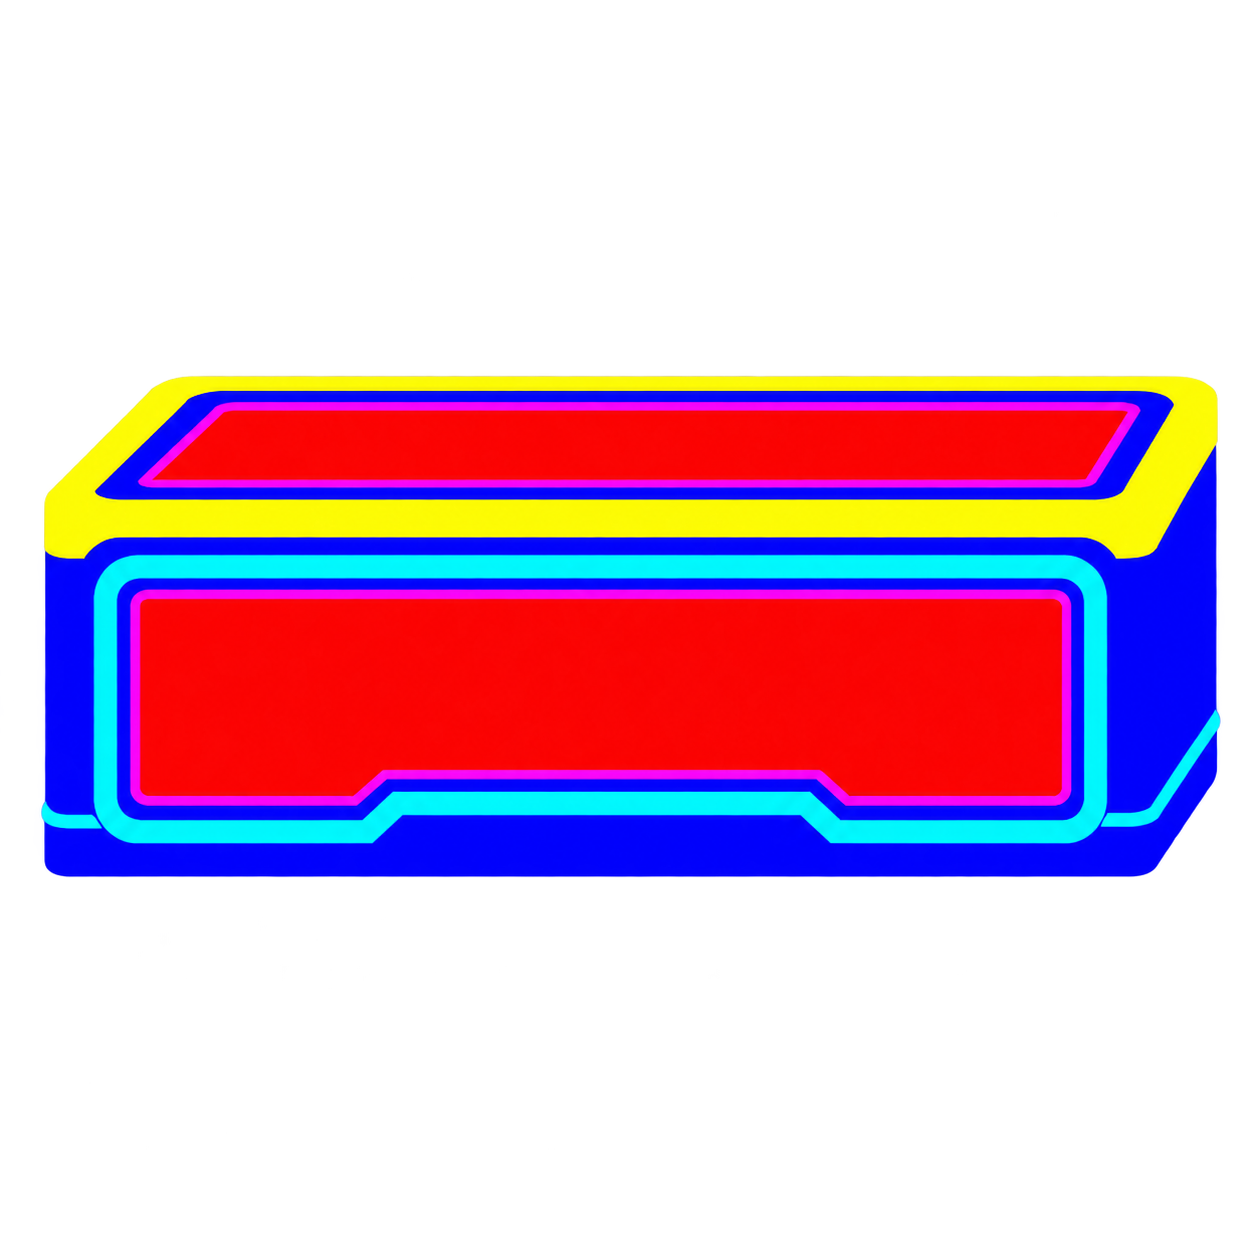
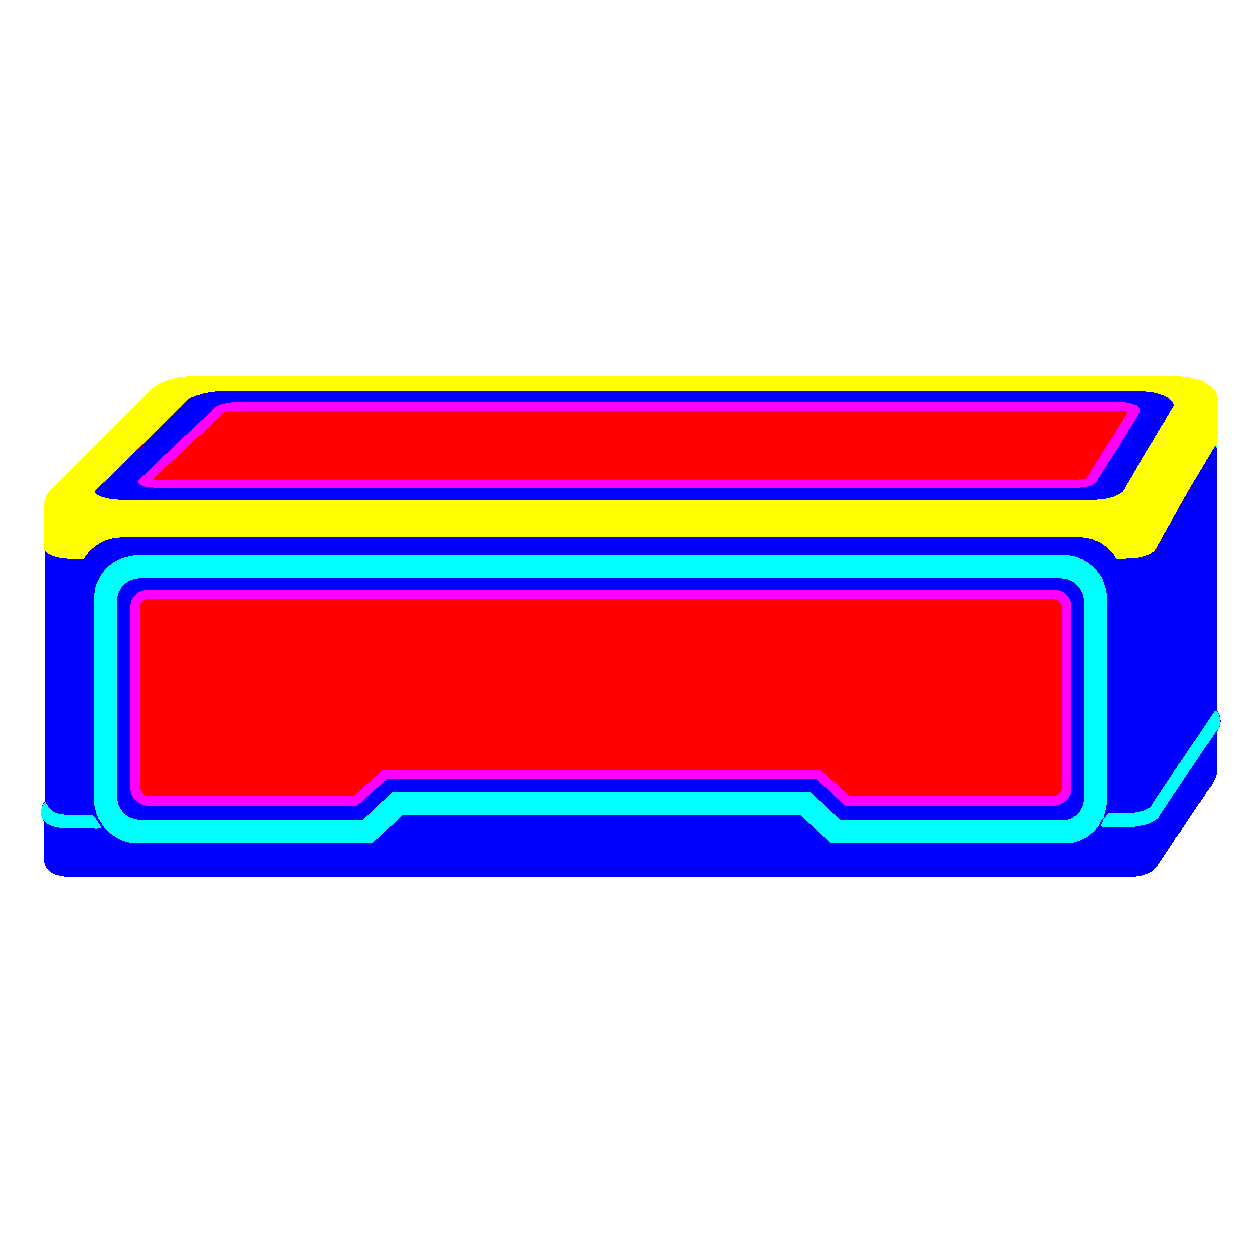
cleaned up fuzzy lines on segementation masks

diff --git a/test/clean_segmentation_mask_edges.py b/test/clean_segmentation_mask_edges.py
@@ -1,0 +1,259 @@
+"""Clean generated noise and straighten long mask boundaries."""
+
+from collections import Counter, defaultdict
+import argparse
+from pathlib import Path
+from statistics import median
+
+from PIL import Image
+
+
+PROJECT_ROOT = Path(__file__).resolve().parents[1]
+MASK_FOLDER = (
+    PROJECT_ROOT
+    / "docs"
+    / "archive"
+    / "old_podium_iterations"
+    / "02_3d_second_attempt"
+)
+OUTPUT_FOLDER = Path(__file__).with_name("cleaned_segmentation_mask_previews")
+STRONG_ALPHA = 64
+MIN_HORIZONTAL_LENGTH = 300
+MAX_BOUNDARY_ADJUSTMENT = 8
+CORNER_GUARD = 12
+
+TRANSPARENT = -1
+PALETTE = (
+    (255, 255, 0),
+    (255, 0, 0),
+    (0, 0, 255),
+    (0, 255, 255),
+    (255, 0, 255),
+)
+
+
+def nearest_class(red: int, green: int, blue: int) -> int:
+    return min(
+        range(len(PALETTE)),
+        key=lambda index: (
+            (red - PALETTE[index][0]) ** 2
+            + (green - PALETTE[index][1]) ** 2
+            + (blue - PALETTE[index][2]) ** 2
+        ),
+    )
+
+
+def group_nearby_rows(rows: list[int], maximum_gap: int = 4) -> list[tuple[int, int]]:
+    groups: list[tuple[int, int]] = []
+    start = previous = rows[0]
+    for row in rows[1:]:
+        if row - previous > maximum_gap:
+            groups.append((start, previous))
+            start = row
+        previous = row
+    groups.append((start, previous))
+    return groups
+
+
+def consecutive_runs(values: list[int], maximum_gap: int = 64) -> list[tuple[int, int]]:
+    runs: list[tuple[int, int]] = []
+    start = previous = values[0]
+    for value in values[1:]:
+        if value - previous > maximum_gap:
+            runs.append((start, previous))
+            start = value
+        previous = value
+    runs.append((start, previous))
+    return runs
+
+
+def fit_line(points: list[tuple[int, int]]) -> tuple[float, float]:
+    mean_x = sum(x for x, _ in points) / len(points)
+    mean_y = sum(y for _, y in points) / len(points)
+    denominator = sum((x - mean_x) ** 2 for x, _ in points)
+    slope = sum((x - mean_x) * (y - mean_y) for x, y in points) / denominator
+    return slope, mean_y - slope * mean_x
+
+
+def remove_interior_speckles(labels: list[list[int]], width: int, height: int) -> None:
+    """Remove isolated class pixels without changing the exterior silhouette."""
+
+    cleaned = [column[:] for column in labels]
+    for x in range(1, width - 1):
+        for y in range(1, height - 1):
+            neighborhood = [
+                labels[near_x][near_y]
+                for near_x in range(x - 1, x + 2)
+                for near_y in range(y - 1, y + 2)
+            ]
+            if TRANSPARENT in neighborhood:
+                continue
+            most_common, count = Counter(neighborhood).most_common(1)[0]
+            if count >= 5:
+                cleaned[x][y] = most_common
+
+    for x in range(width):
+        labels[x][:] = cleaned[x]
+
+
+def flatten_transition_rows(labels: list[list[int]], width: int, height: int) -> None:
+    """Resolve alternating pixels along otherwise continuous horizontal edges."""
+
+    cleaned = [column[:] for column in labels]
+    for y in range(1, height - 1):
+        columns_by_transition: dict[tuple[int, int], list[int]] = defaultdict(list)
+        for x in range(width):
+            above, current, below = labels[x][y - 1], labels[x][y], labels[x][y + 1]
+            if (
+                above != below
+                and TRANSPARENT not in (above, below)
+                and current != TRANSPARENT
+            ):
+                columns_by_transition[(above, below)].append(x)
+
+        for (above, below), columns in columns_by_transition.items():
+            for run_start, run_end in consecutive_runs(columns, maximum_gap=1):
+                if run_end - run_start < MIN_HORIZONTAL_LENGTH:
+                    continue
+                guarded_start = run_start + CORNER_GUARD
+                guarded_end = run_end - CORNER_GUARD
+                counts = Counter(
+                    labels[x][y] for x in range(guarded_start, guarded_end + 1)
+                )
+                replacement = above if counts[above] >= counts[below] else below
+                for x in range(guarded_start, guarded_end + 1):
+                    cleaned[x][y] = replacement
+
+    for x in range(width):
+        labels[x][:] = cleaned[x]
+
+
+def clean_mask(source_path: Path, output_path: Path) -> int:
+    """Quantize a mask and straighten each long, nearly horizontal boundary."""
+
+    with Image.open(source_path) as source:
+        source = source.convert("RGBA")
+
+    width, height = source.size
+    source_pixels = source.load()
+    labels = [[TRANSPARENT] * height for _ in range(width)]
+
+    # Normalize the nearly transparent speckles and near-palette RGB values
+    # found in the generated masks before analyzing their boundaries.
+    for x in range(width):
+        for y in range(height):
+            red, green, blue, alpha = source_pixels[x, y]
+            if alpha > STRONG_ALPHA:
+                labels[x][y] = nearest_class(red, green, blue)
+
+    remove_interior_speckles(labels, width, height)
+
+    transitions: dict[tuple[int, int], list[tuple[int, int]]] = defaultdict(list)
+    for x in range(width):
+        for y in range(1, height):
+            above, below = labels[x][y - 1], labels[x][y]
+            if above != below:
+                transitions[(above, below)].append((x, y))
+
+    straightened = 0
+    for (above, below), points in transitions.items():
+        # Never refit the exterior silhouette.  Its rounded corner transitions
+        # must remain exactly where the source mask places them.
+        if TRANSPARENT in (above, below):
+            continue
+
+        row_counts = Counter(y for _, y in points)
+        dense_rows = sorted(y for y, count in row_counts.items() if count >= 40)
+        if not dense_rows:
+            continue
+
+        for first_row, last_row in group_nearby_rows(dense_rows):
+            candidates = [
+                (x, y)
+                for x, y in points
+                if first_row - 3 <= y <= last_row + 3
+            ]
+            if not candidates:
+                continue
+
+            by_x: dict[int, list[int]] = defaultdict(list)
+            for x, y in candidates:
+                by_x[x].append(y)
+            if max(by_x) - min(by_x) < MIN_HORIZONTAL_LENGTH:
+                continue
+
+            slope, intercept = fit_line(candidates)
+            if abs(slope) > 0.02:
+                continue
+
+            # Select one transition per column and refit so nearby unrelated
+            # edges cannot pull the final boundary away from its intended run.
+            selected = [
+                (x, min(ys, key=lambda y: abs(y - (slope * x + intercept))))
+                for x, ys in by_x.items()
+            ]
+            clean_y = round(median(y for _, y in selected))
+            stable_columns = sorted(
+                x for x, old_y in selected if abs(old_y - clean_y) <= 2
+            )
+
+            for run_start, run_end in consecutive_runs(stable_columns):
+                if run_end - run_start < MIN_HORIZONTAL_LENGTH:
+                    continue
+                guarded_start = run_start + CORNER_GUARD
+                guarded_end = run_end - CORNER_GUARD
+
+                for x in range(guarded_start, guarded_end + 1):
+                    nearby_transitions = [
+                        y
+                        for y in range(
+                            max(1, clean_y - MAX_BOUNDARY_ADJUSTMENT),
+                            min(height, clean_y + MAX_BOUNDARY_ADJUSTMENT + 1),
+                        )
+                        if labels[x][y - 1] == above and labels[x][y] == below
+                    ]
+                    if not nearby_transitions:
+                        continue
+                    old_y = min(nearby_transitions, key=lambda y: abs(y - clean_y))
+                    if clean_y > old_y:
+                        for y in range(old_y, clean_y):
+                            labels[x][y] = above
+                    elif clean_y < old_y:
+                        for y in range(clean_y, old_y):
+                            labels[x][y] = below
+            straightened += 1
+
+    flatten_transition_rows(labels, width, height)
+
+    result = Image.new("RGBA", source.size)
+    result_pixels = result.load()
+    for x in range(width):
+        for y in range(height):
+            label = labels[x][y]
+            if label != TRANSPARENT:
+                result_pixels[x, y] = (*PALETTE[label], 255)
+
+    output_path.parent.mkdir(parents=True, exist_ok=True)
+    result.save(output_path)
+    return straightened
+
+
+def main() -> None:
+    parser = argparse.ArgumentParser()
+    parser.add_argument(
+        "--apply",
+        action="store_true",
+        help="replace the source masks after writing the preview copies",
+    )
+    args = parser.parse_args()
+
+    for source_path in sorted(MASK_FOLDER.glob("*segmentation_mask.png")):
+        output_path = OUTPUT_FOLDER / source_path.name
+        count = clean_mask(source_path, output_path)
+        if args.apply:
+            output_path.replace(source_path)
+        print(f"Cleaned {source_path.name}: straightened {count} boundaries")
+
+
+if __name__ == "__main__":
+    main()
